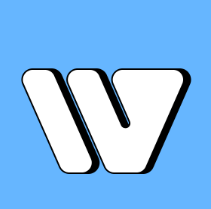
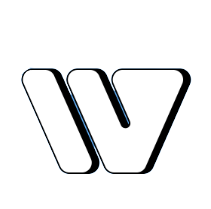
project done

diff --git a/src/components/Footer/Footer.jsx b/src/components/Footer/Footer.jsx
@@ -1,39 +1,49 @@
 import React from "react";
 import Button from "../Button";
 import logo from "../../assets/image-1.png";
+import logo2 from "../../assets/image-2.png";
 
 const Footer = () => {
   return (
-    <div className="bg-[#333232] h-[442px] grid grid-cols-1 lg:grid-cols-2 items-center">
-      <div className=" bg-[#333232] h-full flex flex-col justify-between py-10 ps-10 border-r border-gray-500">
-        <h1 className="bg-[#333232] text-white text-[40px] font-bold w-[219px]">
-          Let’s Work Together
-        </h1>
-        <div className="bg-[#333232]">
-          {" "}
-          <Button title="Get Started"></Button>
+    <>
+      <div className="bg-[#333232] h-[442px] grid grid-cols-1 lg:grid-cols-2 items-center">
+        <div className=" bg-[#333232] h-full flex flex-col justify-between py-10 ps-10 border-r border-gray-500">
+          <h1 className="bg-[#333232] text-white text-[40px] font-bold w-[219px]">
+            Let’s Work Together
+          </h1>
+          <div className="bg-[#333232]">
+            {" "}
+            <Button title="Get Started"></Button>
+          </div>
+        </div>
+        {/* divide */}
+        <div className=" bg-[#333232] h-full flex flex-col justify-between py-10 ps-10 border-r border-gray-500">
+          <div className="bg-[#333232]">
+            <h1 className="bg-[#333232] text-white text-[32px] font-bold w-[219px]">
+              Menu
+            </h1>
+            <p className="text-[#CBBFAC] text-[20px] bg-[#333232]">
+              How it Works
+            </p>
+            <p className="text-[#CBBFAC] text-[20px] bg-[#333232]">Services</p>
+            <p className="text-[#CBBFAC] text-[20px] bg-[#333232]">Contact</p>
+          </div>
+          <div className="bg-[#333232] flex items-center gap-4">
+            <div className="image-wrapper">
+              <img src={logo} alt="" className="w-[119px]  bg-[#333232]" />
+              <img
+                src={logo2}
+                alt=""
+                className="w-[119px]  bg-[#333232] hover-image"
+              />
+            </div>
+            <h1 className="font-bold text-[32px] bg-[#333232] text-white">
+              X.com
+            </h1>
+          </div>
         </div>
       </div>
-      {/* divide */}
-      <div className=" bg-[#333232] h-full flex flex-col justify-between py-10 ps-10 border-r border-gray-500">
-        <div className="bg-[#333232]">
-          <h1 className="bg-[#333232] text-white text-[32px] font-bold w-[219px]">
-            Menu
-          </h1>
-          <p className="text-[#CBBFAC] text-[20px] bg-[#333232]">
-            How it Works
-          </p>
-          <p className="text-[#CBBFAC] text-[20px] bg-[#333232]">Services</p>
-          <p className="text-[#CBBFAC] text-[20px] bg-[#333232]">Contact</p>
-        </div>
-        <div className="bg-[#333232] flex items-center gap-4">
-          <img src={logo} alt="" className="w-[119px] " />
-          <h1 className="font-bold text-[32px] bg-[#333232] text-white">
-            X.com
-          </h1>
-        </div>
-      </div>
-    </div>
+    </>
   );
 };
 

diff --git a/src/components/Navbar.jsx b/src/components/Navbar.jsx
@@ -1,22 +1,22 @@
 import img1 from "../assets/image-1.png";
 import Button from "./Button";
-// import img2 from "../assets/image-2.png";
+import img2 from "../assets/image-2.png";
 
 const Navbar = () => {
   return (
-    <div className="bg-white flex justify-between items-center w-[685px] h-[84px] mx-auto px-6  mt-[47px] rounded-[30px]">
-      <div>
-        {" "}
-        <img src={img1} alt="" className="w-10" />
+    <div className="bg-white flex justify-between items-center w-auto lg:w-[685px] h-[84px] mx-auto lg:px-6  mt-[47px] rounded-[30px] px-10">
+      <div className="image-wrapper">
+        <img src={img1} alt="" className="w-10 bg-white " />
+        <img src={img2} alt="" className="w-10 bg-white hover-image " />
       </div>
-      <div>
+      <div className="ms-4 lg:ms-0">
         <ul className="flex gap-10 bg-white ">
-          <li className="bg-white">How It works</li>
-          <li className="bg-white">Services</li>
-          <li className="bg-white">Contact</li>
+          <li className="bg-white lg:text-[16px] text-[12px]">How It works</li>
+          <li className="bg-white lg:text-[16px] text-[12px]">Services</li>
+          <li className="bg-white lg:text-[16px] text-[12px]">Contact</li>
         </ul>
       </div>
-      <div className="bg-white">
+      <div className="bg-white ms-2 lg:ms-0">
         <Button title="Get Started"></Button>
       </div>
     </div>

diff --git a/src/components/animettedText/Article.jsx b/src/components/animettedText/Article.jsx
@@ -32,8 +32,8 @@ const Article = () => {
     }
   };
   return (
-    <div className="flex justify-center mt-5 mb-10 p-10">
-      <div className="text-[64px] font-bold text-[#333232]">
+    <div className="flex flex-col lg:flex-row justify-center mt-5 mb-10 p-10">
+      <div className="lg:text-[64px] text-[28px] font-bold text-[#333232]">
         <h1>We'd love to help</h1>
         <h1 className="ml-[150px] mt-2">Solve your</h1>
         <h1 className="ml-[80px] mt-2">
@@ -53,7 +53,7 @@ const Article = () => {
           </div>
         </h1>
       </div>
-      <p className=" text-[16px] mt-24 ml-[-95px] text-[#5C5C5B] h-[76px] w-[241px] font-[400]">
+      <p className=" text-[16px] mt-24 lg:ml-[-95px] ml-10 text-[#5C5C5B] h-[76px] w-[241px] font-[400]">
         We know that you care about your business as much as we do, and we're
         committed to helping you grow
       </p>

diff --git a/src/components/CardsSection/SingleCard.jsx b/src/components/CardsSection/SingleCard.jsx
@@ -1,10 +1,14 @@
 const SingleCard = ({ photo, title, description }) => {
   return (
-    <div className=" h-[460px] w-[413px] rounded-3xl border border-black flex flex-col justify-between">
+    <div className=" lg:h-[460px] lg:w-[413px] w-[320px] h-[330px] rounded-3xl border border-black flex flex-col justify-between">
       <img src={photo} alt="" className="m-10 w-[96px] h-[96px]" />
       <div className="m-10 ">
-        <h1 className="text-[40px] font-bold italic text-[#333232]">{title}</h1>
-        <p className="text-[24px] text-[#333232] ">{description}</p>
+        <h1 className="lg:text-[40px] text-[20px] font-bold italic text-[#333232]">
+          {title}
+        </h1>
+        <p className="lg:text-[24px] text-[12px] text-[#333232] ">
+          {description}
+        </p>
       </div>
     </div>
   );

diff --git a/src/components/HeroSection.jsx b/src/components/HeroSection.jsx
@@ -4,13 +4,13 @@ import heroBottomImg from "../assets/solvv.png";
 
 const HeroSection = () => {
   return (
-    <div className="container mx-auto">
+    <div className="container mx-auto px-10 lg:px-0">
       <img src={hero} alt="" className="w-full " />
       <div className=" my-10">
         <img src={heroBottomImg} alt="" />
       </div>
-      <div className="w-[964px] my-36 h-[268px] ">
-        <h1 className=" text-[#333232] text-[56px] font-bold ">
+      <div className="lg:w-[964px] w-auto my-36 h-[268px] ">
+        <h1 className=" text-[#333232] lg:text-[56px] text-[20px]  font-bold ">
           “The real fact of the matter is that nobody reads ads. People read
           what interests them, and sometimes it’s an ad”
         </h1>

diff --git a/src/components/CardsSection/Cards.jsx b/src/components/CardsSection/Cards.jsx
@@ -7,13 +7,13 @@ import img5 from "../../assets/ph-5.png";
 
 const Cards = () => {
   return (
-    <div className="container mx-auto grid grid-cols-1 lg:grid-cols-3 my-20  ">
+    <div className="container mx-auto grid grid-cols-1 lg:grid-cols-3 my-20  justify-center px-5 lg:px-0">
       <SingleCard
         photo={img1}
         title="Pause"
         description="want to take a break? Pause our services anytime"></SingleCard>
       <div className=" flex items-center ms-28 col-span-2 ...">
-        <h1 className="italic font-bold text-[48px] ">
+        <h1 className="italic font-bold lg:text-[48px] text-[24px] ">
           Why choose us? <br /> what makes us different?
         </h1>
       </div>

diff --git a/src/App.jsx b/src/App.jsx
@@ -3,6 +3,7 @@ import AdvertizedSection from "./components/AdvertizedSection";
 import Article from "./components/animettedText/Article";
 import Cards from "./components/CardsSection/Cards";
 import Footer from "./components/Footer/Footer";
+import FooterBottom from "./components/Footer/FooterBottom";
 import HeroSection from "./components/HeroSection";
 import HowIt from "./components/HowIt";
 import Navbar from "./components/Navbar";
@@ -19,6 +20,7 @@ function App() {
       <Cards></Cards>
       <StillNotSection></StillNotSection>
       <Footer></Footer>
+      <FooterBottom></FooterBottom>
     </div>
   );
 }

diff --git a/src/components/StillNotSection.jsx b/src/components/StillNotSection.jsx
@@ -3,8 +3,10 @@ import Button from "./Button";
 const StillNotSection = () => {
   return (
     <div className="text-center my-28 space-y-6 text-[#333232]">
-      <h1 className="text-[64px] font-bold">Still not convinced?</h1>
-      <p className="">
+      <h1 className="lg:text-[64px] text-[40px] font-bold">
+        Still not convinced?
+      </h1>
+      <p className="lg:text-[20px] text-[12px]">
         Schedule a call to learn more about how we can change the <br /> way you
         view sourcing your ads...forever.
       </p>

diff --git a/src/components/AdvertizedSection.jsx b/src/components/AdvertizedSection.jsx
@@ -27,9 +27,9 @@ const AdvertizedSection = () => {
   ];
 
   return (
-    <div className="container mx-auto mb-28 flex flex-col lg:flex-row gap-10">
+    <div className="container mx-auto mb-28 flex flex-col lg:flex-row gap-10 px-10 lg:px-0">
       <div className="space-y-5">
-        <h1 className="w-[386px] text-[64px] font-bold">
+        <h1 className="w-[386px] lg:text-[64px] text-[30px] font-bold">
           advertising optimized
         </h1>
         <img src={ad} alt="" />

diff --git a/src/components/AdCard.jsx b/src/components/AdCard.jsx
@@ -4,7 +4,7 @@ const AdCard = ({ data }) => {
     <div className="">
       <div className="flex gap-8">
         <div className="w-[97px] h-[97px] rounded-full border-black border-2 flex items-center justify-center">
-          <h1 className="text-[48px] font-semibold">{id}</h1>
+          <h1 className="lg:text-[48px] text-[28px] font-semibold">{id}</h1>
         </div>
         <div>
           <h1 className="text-[48px] font-bold">{title}</h1>

diff --git a/src/index.css b/src/index.css
@@ -14,7 +14,20 @@
   border: none;
   padding: 10px 20px;
   border-radius: 10px;
-  font-size: 16px;
-  font-weight: bold;
   transition: background 0.3s ease-in-out;
+}
+.image-wrapper {
+  position: relative;
+}
+
+.hover-image {
+  position: absolute;
+  top: 0;
+  left: 0;
+  opacity: 0;
+  transition: opacity 0.3s ease-in-out;
+}
+
+.image-wrapper:hover .hover-image {
+  opacity: 1;
 }

diff --git a/src/components/Footer/FooterBottom.jsx b/src/components/Footer/FooterBottom.jsx
@@ -1,0 +1,13 @@
+import React from "react";
+
+const FooterBottom = () => {
+  return (
+    <div className="bg-[#212121] h-[58px]  flex items-center justify-center mt-28 lg:mt-0 relative">
+      <h1 className="font-bold text-[20px] text-center  text-[#6B6B6B] bg-[#212121] ">
+        Made with 🧡 by x.com
+      </h1>
+    </div>
+  );
+};
+
+export default FooterBottom;
